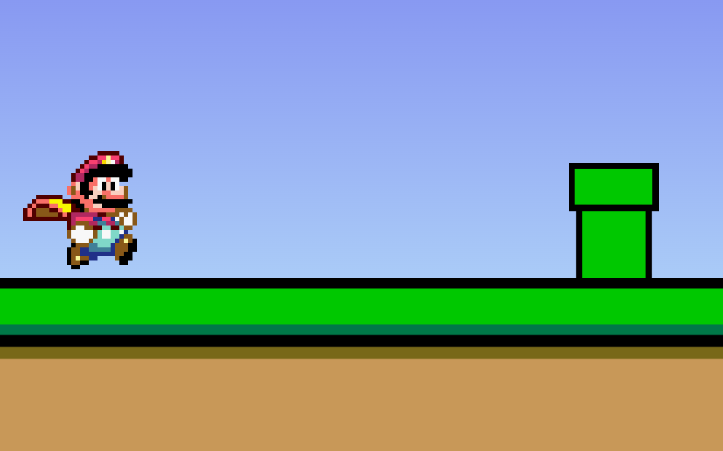
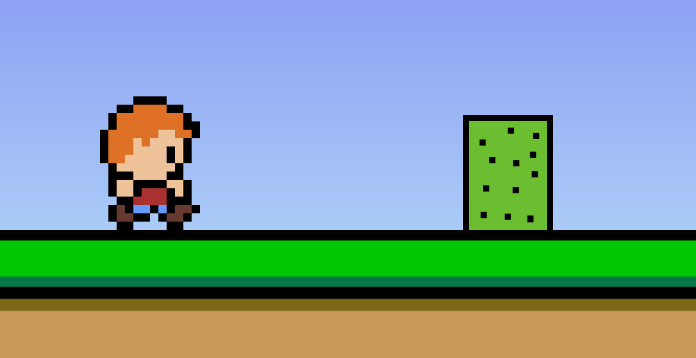
Updates

diff --git a/js/script.js b/js/script.js
@@ -52,17 +52,18 @@ const loop = setInterval(() => {
     // }
     
     
-    if (pipePosition <= 120 && pipePosition > 0 && marioPosition < 100){
+    if (pipePosition <= 200 && pipePosition > 0 && marioPosition < 100){
         
         pipe.style.animation = 'none';
         pipe.style.left = `${pipePosition}px`;
         
         mario.style.animation = 'none';
-        mario.style.bottom = `${marioPosition}px`
-        mario.src = '/img/game-over.png';
+        mario.style.bottom = `${marioPosition - 30}px`
+        mario.style.rotate = '-90deg'
+        mario.src = '/img/personagemMaiorGameOver1.png';
         
-        mario.style.width = '80px';
-        mario.style.margin = '0 0 0 50px';
+        // mario.style.width = '80px';
+        // mario.style.margin = '0 0 0 50px';
         
         nuvem1.style.animation = 'none';
         nuvem1.style.right = `${nuvem1Position}px`;

diff --git a/Index.html b/Index.html
@@ -11,15 +11,15 @@
         
         <div class="game-board">
             
-            <img src="/img/clouds2.png" class="nuvem2" alt="">
-            <img src="/img/clouds.png" class="nuvem1" alt="">
-            <img src="/img/mario.gif" class="mario" alt="">
-            <img src="/img/pipe.png" class="pipe1" alt="">
+            <img src="/img/nuvens.png" class="nuvem2" alt="">
+            <img src="/img/nuvens2.png" class="nuvem1" alt="">
+            <img src="/img/personagemMaior.gif" class="mario" alt="">
+            <img src="/img/Cacto.png" class="pipe1" alt="">
 
         </div>
         
         <div class="score">
-            <span id="score">0</span>
+            <span id="score"></span>
         </div>
 
         <div class="menu-board">

diff --git a/css/Style.css b/css/Style.css
@@ -49,9 +49,10 @@ body {
 }
 
 .mario {
-    width: 160px;
+    width: 100px;
     position: absolute;
     bottom: 0;
+    left: 100px;
 }
 
 .pular {
